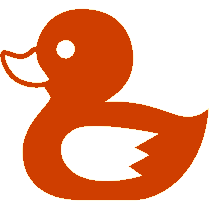
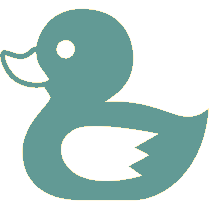
changed border radius for all buttons and color pallet

diff --git a/components/ContactSection/ContactSection.tsx b/components/ContactSection/ContactSection.tsx
@@ -8,27 +8,29 @@ interface IContactProps {}
 
 const Contact: React.FC<IContactProps> = ({}) => {
   const form = useRef()
-  const [buttonText, setButtonText] = useState('SUBMIT')
+  const [buttonText, setButtonText] = useState('Send')
 
   const sendEmail = (e) => {
     e.preventDefault()
     setButtonText('Sending...')
 
-    emailjs
-      .sendForm(
-        process.env.NEXT_PUBLIC_EMAIL_JS_SERVICE,
-        process.env.NEXT_PUBLIC_EMAIL_JS_TEMPLATE,
-        form.current,
-        process.env.NEXT_PUBLIC_EMAIL_JS_API_KEY
-      )
-      .then(
-        (result) => {
-          setButtonText("I'll get in touch!")
-        },
-        (error) => {
-          setButtonText("Uh-oh, this didn't work :(")
-        }
-      )
+    console.log(e.value)
+
+    // emailjs
+    //   .sendForm(
+    //     process.env.NEXT_PUBLIC_EMAIL_JS_SERVICE,
+    //     process.env.NEXT_PUBLIC_EMAIL_JS_TEMPLATE,
+    //     form.current,
+    //     process.env.NEXT_PUBLIC_EMAIL_JS_API_KEY
+    //   )
+    //   .then(
+    //     (result) => {
+    //       setButtonText("I'll get in touch!")
+    //     },
+    //     (error) => {
+    //       setButtonText("Uh-oh, this didn't work :(")
+    //     }
+    //   )
   }
   return (
     <section id="contact">
@@ -56,24 +58,29 @@ const Contact: React.FC<IContactProps> = ({}) => {
           type="text"
           className="feedback-input"
           placeholder="Name"
+          required
         />
         <input
           name="reply_to"
           type="text"
           className="feedback-input"
           placeholder="Email"
+          required
         />
         <textarea
           name="message"
           className="feedback-input"
           placeholder="Comment"
+          required
         ></textarea>
-        <input type="submit" value={buttonText} />
+        <div className="submitWrapper">
+          <input type="submit" value={buttonText} />
+        </div>
       </form>
       <style jsx>
         {`
           section {
-            max-width: 40rem;
+            max-width: 35rem;
             margin: 0 auto;
             padding: 1rem;
           }
@@ -100,7 +107,6 @@ const Contact: React.FC<IContactProps> = ({}) => {
             color: black;
             font-family: Helvetica, Arial, sans-serif;
             font-size: 18px;
-            border-radius: 5px;
             line-height: 22px;
             background-color: transparent;
             border: 2px solid var(--color-primary);
@@ -113,7 +119,7 @@ const Contact: React.FC<IContactProps> = ({}) => {
           }
 
           .feedback-input:focus {
-            border: 2px solid #cc4949;
+            border: 2px solid var(--color-primary-light);
           }
 
           textarea {
@@ -122,19 +128,24 @@ const Contact: React.FC<IContactProps> = ({}) => {
             resize: vertical;
           }
 
+          .submitWrapper {
+            display: flex;
+            align-items: flex-end;
+            justify-content: flex-end;
+          }
+
           [type='submit'] {
-            width: 100%;
-            padding: 1rem 1.5rem;
-            font-size: 1.5rem;
+            padding: 0.8rem 2rem;
+            font-size: 1rem;
             transition-duration: 0.2s;
             cursor: pointer;
             border: 5px solid black;
-            border-radius: 5px;
+            font-weight: bold;
             border-color: var(--color-secondary);
-            border-radius: 8px;
             background-color: var(--color-primary);
             color: var(--color-secondary);
           }
+
           [type='submit']:hover {
             background-color: var(--color-secondary);
             color: var(--color-primary);

diff --git a/components/Layout/Footer/Footer.tsx b/components/Layout/Footer/Footer.tsx
@@ -9,15 +9,10 @@ const Footer: React.FC<IFooterProps> = (prop) => {
   return (
     <footer className="footerContainer">
       <div className="iconsWrapper">
-        {SocialMediaData.map((value, index) => (
-          <Link href={value.link} key={index}>
-            <a target="_blank" rel="noreferrer">
-              <div>
-                <Icon id={value.title} width={27} height={27} filled={false} />
-              </div>
-            </a>
-          </Link>
-        ))}
+        This website is open hosted on{' '}
+        <Link href="https://github.com/bandreit/portofolio">
+          <span className="email">GitHub</span>
+        </Link>
       </div>
 
       <div className="madeWithLove">
@@ -56,17 +51,13 @@ const Footer: React.FC<IFooterProps> = (prop) => {
             }
           }
 
-          .iconsWrapper {
-            display: flex;
-            gap: 0.4rem;
-          }
-
           .address {
             text-align: end;
           }
 
           .email {
-            color: blue;
+            color: var(--color-primary);
+            cursor: pointer;
           }
         `}
       </style>

diff --git a/components/Hero/Hero.tsx b/components/Hero/Hero.tsx
@@ -17,7 +17,9 @@ const Hero: React.FC<IHeroProps> = (props) => {
         </h2>
 
         <Link href="#contact">
-          <button>Say hi! {` `} 👋</button>
+          <button className="buttonImageWrapper">
+            Say hi! {` `} <Image src="/hand.png" height={30} width={30}></Image>
+          </button>
         </Link>
       </div>
 
@@ -76,9 +78,8 @@ const Hero: React.FC<IHeroProps> = (props) => {
           transition-duration: 0.2s;
           cursor: pointer;
           border: 5px solid black;
-          border-radius: 5px;
           border-color: var(--color-secondary);
-          border-radius: 8px;
+          border-radius: 0;
           background-color: var(--color-primary);
           color: var(--color-secondary);
         }
@@ -90,6 +91,12 @@ const Hero: React.FC<IHeroProps> = (props) => {
 
         .description {
           font-size: 2rem;
+        }
+
+        .buttonImageWrapper {
+          display: flex;
+          gap: 5px;
+          align-items: center;
         }
 
         @media (max-width: 766.98px) {

diff --git a/data/projects.ts b/data/projects.ts
@@ -42,14 +42,14 @@ export const projects = [
     languageLogo: '/logos/java.png',
     body: 'Android application build in Java to serve as an expense tracker with analytics functionality and budgeting',
     technologies: ['Java', 'Android'],
-    shadow_color: '#ff3c1f'
+    shadow_color: '#dc6756'
   },
   {
     link: 'https://github.com/grigorebudac/car-chase-game',
     author: 'sep-group',
     title: 'car-chase-game',
     languageLogo: '/logos/csharp.png',
-    body: 'Android application build in Java to serve as an expense tracker with analytics functionality and budgeting',
+    body: 'Infinite car chase game built for our Game Develpoment course',
     technologies: ['Unity', 'C#'],
     shadow_color: '#592C8D'
   },

diff --git a/styles/base.ts b/styles/base.ts
@@ -6,15 +6,15 @@ export default css.global`
 
     --color-white: #FFF;
 
-    --color-primary-light: #ff4d00;
-    --color-primary: #cf3e00;
+    --color-primary-light: #6d8975;
+    --color-primary: #629A95;
     --color-primary-dark: #832801;
 
     --color-primary-100: #f4ecff;
     --color-primary-800: #292841;
 
     --color-secondary-light: #ffffff;
-    --color-secondary: #ffc600;
+    --color-secondary: #ddf1f0;
     --color-secondary-dark: #cdd6e6;
 
     --color-tertiary-light: #e4b443;

diff --git a/components/Layout/Header/Header.tsx b/components/Layout/Header/Header.tsx
@@ -10,7 +10,7 @@ const Header: React.FC<IHeaderProps> = (props) => {
 
   return (
     <header>
-      <nav>
+      <nav className="blur">
         <div
           style={{
             borderRadius: '50%',
@@ -97,6 +97,10 @@ const Header: React.FC<IHeaderProps> = (props) => {
           display: flex;
           justify-content: space-between;
           padding: 1rem 1.5rem;
+        }
+
+        .blur {
+          backdrop-filter: blur(5px);
         }
 
         ul {

diff --git a/components/DuckWalk/DuckWalk.tsx b/components/DuckWalk/DuckWalk.tsx
@@ -32,8 +32,8 @@ const DuckWalk = () => {
 
         .duck {
           width: 40px;
-          transform: translateX(${(y * 1.3) % windowInnerWidth}px)
-            rotateZ(${(Math.floor(y / 10) % 10) - 5}deg) scaleX(-1);
+          transform: translateX(${(y * 0.3) % windowInnerWidth}px)
+            rotateZ(${(Math.floor(y / 20) % 10) - 5}deg) scaleX(-1);
         }
       `}</style>
     </div>
